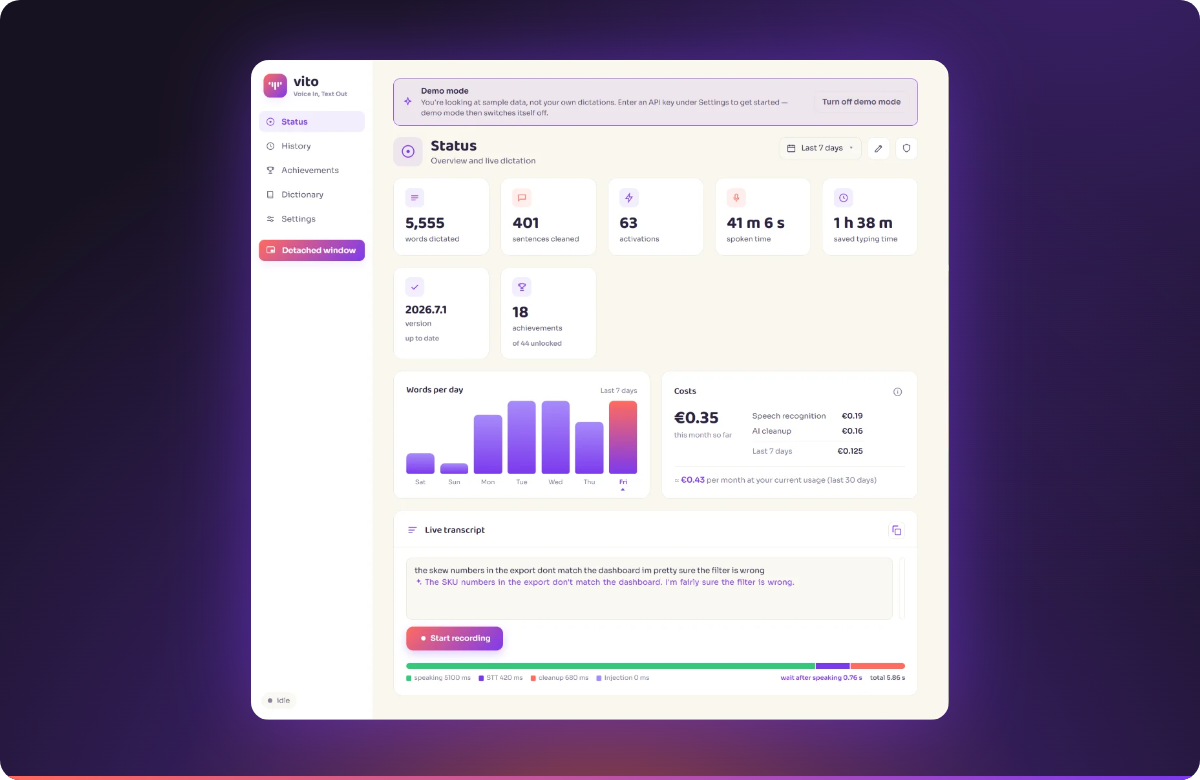
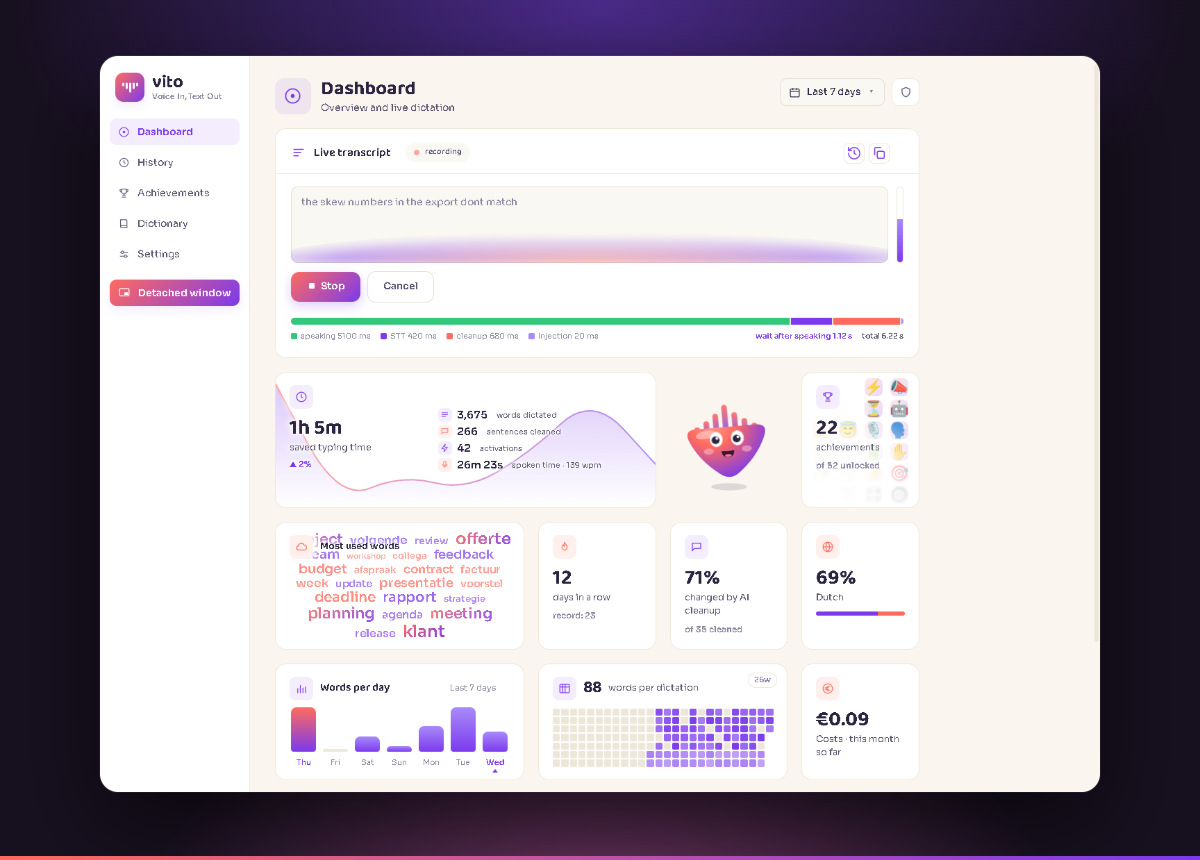
README: the dashboard, the streak and Vito (#57)
* readme: the dashboard, the streak and Vito

The features list said only 'detailed statistics'. It now describes the
dashboard you arrange yourself, periods and comparisons, the statistics,
the streak and Vito the mascot; the screenshot's caption names the
dashboard.

* readme: a screenshot of the dashboard

The old one showed the Status page of 2026.7. The new one is the
dashboard in demo mode, in the default layout, with Vito chatting along
to a live dictation.

---------

diff --git a/README.md b/README.md
@@ -236,6 +236,13 @@ Vito is **simple to use, but powerful under the hood.**
 - 🔒 **Offline speech recognition** — a local engine Vito installs for you: free, private, no account.
 - 📁 **Upload an audio file** to have it transcribed to text.
 
+### Dashboard
+- 📊 **A dashboard you arrange yourself** — drag cards around like icons on a phone, make each one, two or three cells wide, hide what you don't need. Your layout is kept with your settings, so it survives a new browser and goes along with a backup.
+- 📅 **Any period** — today, the last weeks or months, all time, or any from–to range in a calendar — with the change against the period before (*▲ 12%*).
+- 📈 **Statistics that say something** — words dictated with sentences, activations, spoken and saved time; your speaking rate; how often AI cleanup changed your text; the languages you dictate in; a word cloud of what you talk about; a 26-week calendar; and costs with where the month is heading.
+- 🔥 **A streak to keep alive** — two days off in any seven are forgiven, so a weekend never breaks it — with a celebration when you beat your record.
+- 🎭 **Meet Vito** — the logo with a face, who chats along while you dictate, reacts to what happens, gets up to tricks in between and falls asleep when you leave him alone.
+
 ### Interface
 - 🌗 **Light & dark mode**, switching automatically with your OS preference.
 - 🌍 **UI translated into 60 languages.**
@@ -252,7 +259,6 @@ Vito is **simple to use, but powerful under the hood.**
 - 📖 **Dictionary** for names, jargon and common mishearings — corrected automatically.
 - 🔊 **Play back and save** your recordings.
 - 🏆 **Achievements & gamification** to track milestones.
-- 📊 **Detailed statistics** on usage and cost.
 
 ### System & maintenance
 - 🚀 **Start with your computer**, so Vito is always ready.
@@ -262,7 +268,7 @@ Vito is **simple to use, but powerful under the hood.**
 - 🐧 **Linux-friendly** — detects missing utilities/libraries and explains how to bind hotkeys in each desktop environment.
 
 <p align="center">
-  <img src="assets/marketing/app-status.png" alt="Vito status screen" width="88%">
+  <img src="assets/marketing/app-status.png" alt="Vito's dashboard" width="88%">
 </p>
 
 ---
